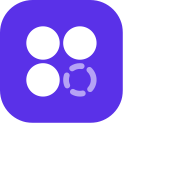
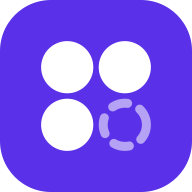
O ícone enche a tela, e a barra mostra os três separadores no iPhone
O ÍCONE DO ECRÃ INICIAL ESTAVA A 60%. O apple-touch-icon de 180 tinha a marca
a ocupar 60% da largura, encostada ao canto de cima, e o resto branco; o de
192 ocupava 64%. Medido nos ficheiros que carimbodigital.pt servia. Só os de
512 estavam bem.

A causa é aritmética: o qlmanage compõe o SVG numa PÁGINA de 300 pt e reduz a
página ao tamanho pedido. Com largura intrínseca 180, o desenho fica com
180/300 = 0,60 da tela; com 192, 0,64. Os de 512 passam dos 300 e por isso
saíam inteiros, por acaso. O gerador passa a emitir sempre 1024 de largura
intrínseca e deixa o -s reduzir — ensaiado antes: 100,0% contra 60,0%.

A afirmação que existia («pelo menos 180×180») passava, porque media a TELA.
O módulo 16 passa a medir a caixa do que foi pintado em cada ícone do
manifesto e nos dois apple-touch-icon, e exige 95%. Provado com os ficheiros
de produção: dá 60% e 65%, vermelho.

A BARRA NO IPHONE, À SEGUNDA. A primeira correcção (a cápsula passou de
fit-content a uma conta) deu os 300 px certos — e mesmo assim só dois
separadores. Instalei WebKit a sério para deixar de adivinhar: o interior
media 108 px em vez de 282, porque eu lhe tinha posto width: auto, que é
pedir dimensionamento intrínseco um nível abaixo. Com width: 100% de uma
cápsula de largura definida, não sobra nada para o motor inferir: medido em
WebKit, cápsula 300, interior 282, três de três dentro.

Nenhuma bateria desta casa corre WebKit, por isso o auditor proíbe o
[…]

diff --git a/_fonte/estilos/app.css b/_fonte/estilos/app.css
@@ -258,7 +258,19 @@ body.app:not(.balcao) .barra {
    ser uma conta isto deixa de acontecer — mas um item que não pode encolher
    torna o defeito impossível em vez de improvável, e não custa nada. */
 body.app:not(.balcao) .barra-interior {
-  width: auto; max-width: none; flex: 0 0 auto;
+  /* `width: 100%` E NÃO `auto`, e é a mesma lição um nível abaixo.
+
+     Pus aqui `width: auto` a pensar que o interior se mediria pelos
+     separadores. `auto` é exactamente o que pede dimensionamento intrínseco —
+     e é isso que o WebKit resolve mal dentro de flex aninhado. Medido em
+     WebKit a sério, no site publicado: a cápsula estava nos 300 px certos e o
+     interior media 108. Os três separadores de 94 saíam de x=141, e o terceiro
+     caía em 329 numa cápsula que acaba em 345 — dois à vista, um cortado.
+
+     Com a cápsula a ter largura DEFINIDA, `100%` é uma percentagem de um
+     número conhecido: não há nada para o motor inferir. Não sobra
+     dimensionamento intrínseco em lado nenhum deste caminho. */
+  width: 100%; max-width: none; flex: 0 0 auto;
 }
 body.app:not(.balcao) .barra-item {
   /* Largura fixa e não `flex: 1`: é a soma delas que dá a largura da cápsula,
